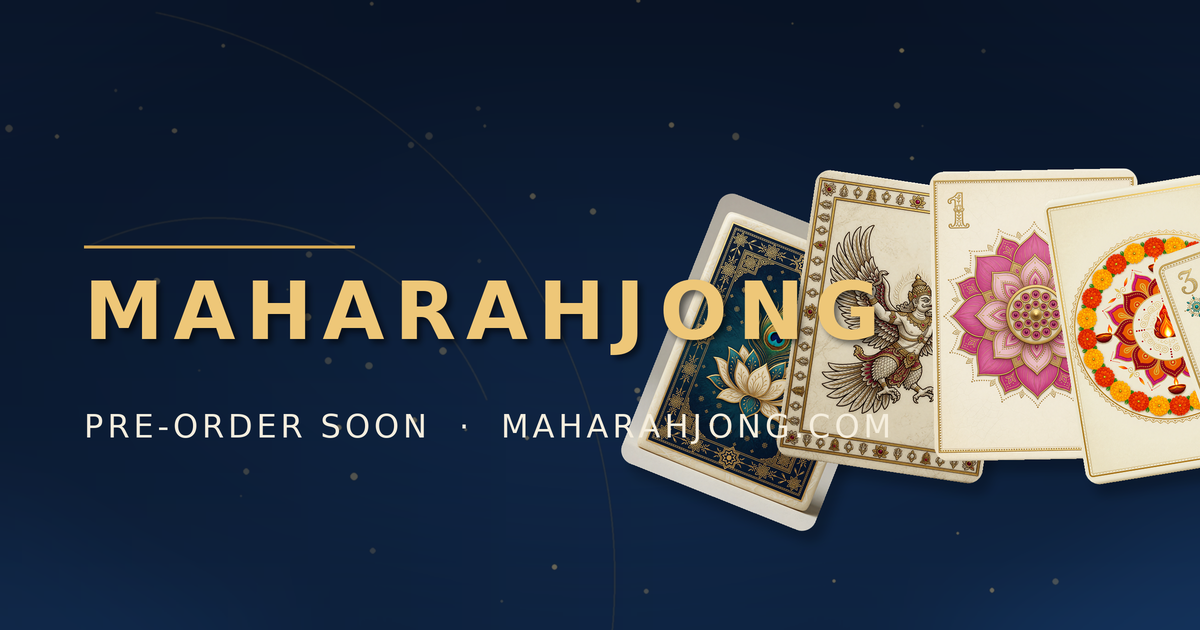
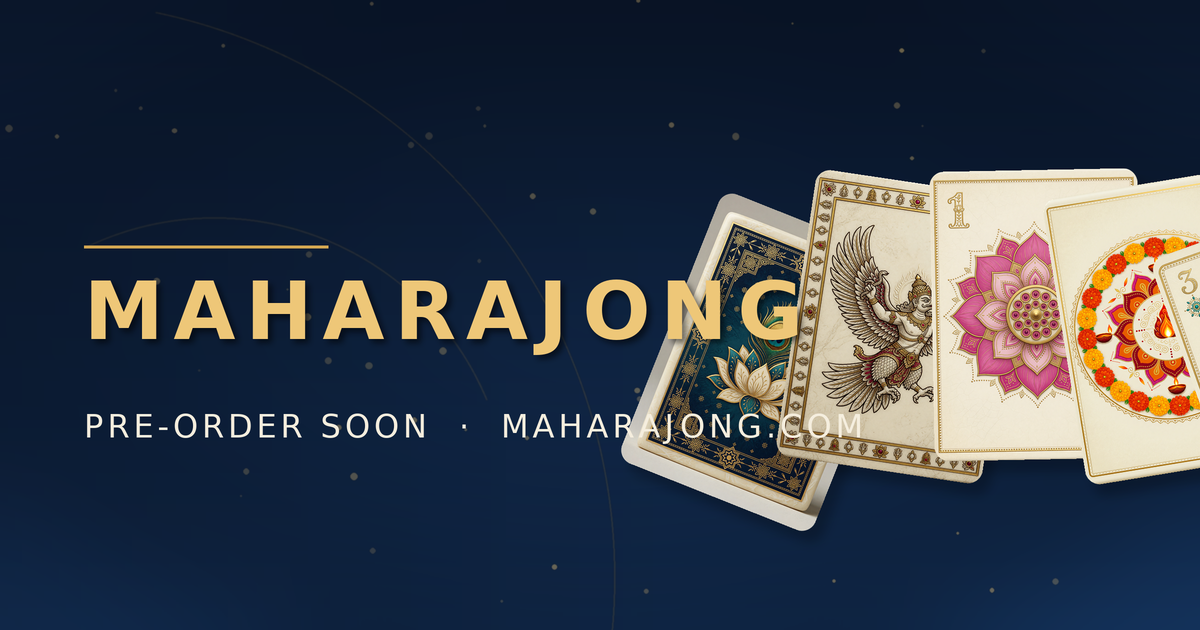
Fix brand spelling: Maharahjong → Maharajong
Store domain is maharajong.com (confirmed via Shopify). Updated all
landing page copy, template handles, deploy guide, and regenerated
og-image.png with corrected wordmark.

Changed region(s): [[0.4625, 0.4222, 0.74, 0.573], [0.555, 0.6333, 0.74, 0.7238], [0.4317, 0.5429, 0.4625, 0.573]]

diff --git a/web/landing/index.html b/web/landing/index.html
@@ -3,14 +3,14 @@
 <head>
 <meta charset="UTF-8" />
 <meta name="viewport" content="width=device-width, initial-scale=1.0" />
-<title>Maharahjong — Founding Edition | Four traditions, one table</title>
-<meta name="description" content="Maharahjong is a premium Indian-fusion mahjong set blending Chinese, Japanese and American mahjong with Indian Rummy, rangoli artistry and Vedic symbols. Join the Founding Edition waitlist." />
+<title>Maharajong — Founding Edition | Four traditions, one table</title>
+<meta name="description" content="Maharajong is a premium Indian-fusion mahjong set blending Chinese, Japanese and American mahjong with Indian Rummy, rangoli artistry and Vedic symbols. Join the Founding Edition waitlist." />
 
 <!-- Open Graph / social -->
-<meta property="og:title" content="Maharahjong — Founding Edition" />
+<meta property="og:title" content="Maharajong — Founding Edition" />
 <meta property="og:description" content="Four traditions, one table. A premium Indian-fusion mahjong set. Join the Founding Edition waitlist." />
 <meta property="og:type" content="website" />
-<meta property="og:url" content="https://maharahjong.com/" />
+<meta property="og:url" content="https://maharajong.com/" />
 <meta property="og:image" content="../../design/marketing/hero/og-image.png" />
 <meta name="twitter:card" content="summary_large_image" />
 
@@ -383,7 +383,7 @@
     <div class="section-head">
       <div class="rangoli-rule"><span class="dot">✦ ✦ ✦</span></div>
       <h2>Four traditions, one table</h2>
-      <p>Mahjong has traveled the world for a century, gathering meaning at every table. Maharahjong brings it home to India — braiding four great game traditions into one set, dressed in the art of rangoli and the depth of Vedic symbol.</p>
+      <p>Mahjong has traveled the world for a century, gathering meaning at every table. Maharajong brings it home to India — braiding four great game traditions into one set, dressed in the art of rangoli and the depth of Vedic symbol.</p>
     </div>
     <div class="traditions">
       <div class="tradition">
@@ -419,7 +419,7 @@
       <p>Every face is drawn in the spirit of temple relief and rangoli stencil — lotus and peacock, deity and festival, chakra and Vedic sign. Intricate up close, instantly readable in play.</p>
     </div>
     <div class="strip">
-      <img src="../../design/marketing/hero/tile-showcase-strip.png" alt="A strip of Maharahjong tile artwork showing lotus, peacock, deity and festival designs" loading="lazy" />
+      <img src="../../design/marketing/hero/tile-showcase-strip.png" alt="A strip of Maharajong tile artwork showing lotus, peacock, deity and festival designs" loading="lazy" />
     </div>
     <div class="tile-grid">
       <div class="tile-card">
@@ -494,11 +494,11 @@
         <div class="mark">✧</div>
         <div>
           <h3>Rules &amp; quick-start</h3>
-          <p>The full Maharahjong rulebook plus a one-page guide to get four players seated fast.</p>
+          <p>The full Maharajong rulebook plus a one-page guide to get four players seated fast.</p>
         </div>
       </div>
     </div>
-    <p class="box-disclaimer">Maharahjong is in active prototyping. Final contents, quantities and finishes may vary as we refine the set with our makers.</p>
+    <p class="box-disclaimer">Maharajong is in active prototyping. Final contents, quantities and finishes may vary as we refine the set with our makers.</p>
   </div>
 </section>
 
@@ -542,7 +542,7 @@
       <div class="rangoli-rule"><span class="dot">✦ ✦ ✦</span></div>
       <span class="eyebrow">Founding Edition</span>
       <h2>Reserve your place at the table</h2>
-      <p class="lead">Join the pre-order list to be first to reserve a Founding Edition Maharahjong set — and to help shape it as it comes to life.</p>
+      <p class="lead">Join the pre-order list to be first to reserve a Founding Edition Maharajong set — and to help shape it as it comes to life.</p>
       <form class="signup-form" onsubmit="return handleSignup(event, 'waitlist-success')">
         <input type="email" name="email" placeholder="Your email address" required aria-label="Email address" />
         <button type="submit" class="btn btn-gold">Join the Pre-order List</button>
@@ -562,12 +562,12 @@
     </div>
     <div class="faq-list">
       <div class="faq-item">
-        <button class="faq-q" onclick="toggleFaq(this)">When will Maharahjong ship?</button>
-        <div class="faq-a"><p>We don't have a firm ship date yet — Maharahjong is still in prototyping. Joining the pre-order list is the best way to hear about timing first, the moment it's set.</p></div>
+        <button class="faq-q" onclick="toggleFaq(this)">When will Maharajong ship?</button>
+        <div class="faq-a"><p>We don't have a firm ship date yet — Maharajong is still in prototyping. Joining the pre-order list is the best way to hear about timing first, the moment it's set.</p></div>
       </div>
       <div class="faq-item">
         <button class="faq-q" onclick="toggleFaq(this)">How much will it cost?</button>
-        <div class="faq-a"><p>Pricing isn't finalized. As a premium, hand-finished set, Maharahjong will be priced to match its craft — we'll share exact Founding Edition pricing with the waitlist before reservations open, with no obligation to buy.</p></div>
+        <div class="faq-a"><p>Pricing isn't finalized. As a premium, hand-finished set, Maharajong will be priced to match its craft — we'll share exact Founding Edition pricing with the waitlist before reservations open, with no obligation to buy.</p></div>
       </div>
       <div class="faq-item">
         <button class="faq-q" onclick="toggleFaq(this)">Where is it made?</button>
@@ -575,7 +575,7 @@
       </div>
       <div class="faq-item">
         <button class="faq-q" onclick="toggleFaq(this)">Do I need to know how to play mahjong?</button>
-        <div class="faq-a"><p>Not at all. Maharahjong is designed to welcome newcomers while rewarding experienced players. The set includes a full rulebook and a one-page quick-start so four people can sit down and play.</p></div>
+        <div class="faq-a"><p>Not at all. Maharajong is designed to welcome newcomers while rewarding experienced players. The set includes a full rulebook and a one-page quick-start so four people can sit down and play.</p></div>
       </div>
       <div class="faq-item">
         <button class="faq-q" onclick="toggleFaq(this)">Is joining the list a commitment?</button>
@@ -583,7 +583,7 @@
       </div>
       <div class="faq-item">
         <button class="faq-q" onclick="toggleFaq(this)">Is the design respectful of the traditions it draws on?</button>
-        <div class="faq-a"><p>That's our first commitment. Maharahjong is a heartfelt fusion, and we render every symbol — Vedic, festival and deity — with care and reverence. We welcome feedback from the communities whose art and games inspire the set.</p></div>
+        <div class="faq-a"><p>That's our first commitment. Maharajong is a heartfelt fusion, and we render every symbol — Vedic, festival and deity — with care and reverence. We welcome feedback from the communities whose art and games inspire the set.</p></div>
       </div>
     </div>
   </div>
@@ -613,8 +613,8 @@
       </div>
     </div>
     <div class="footer-bottom">
-      <span>© <span id="year"></span> Maharahjong. All rights reserved.</span>
-      <span>maharahjong.com · Currently in prototyping</span>
+      <span>© <span id="year"></span> Maharajong. All rights reserved.</span>
+      <span>maharajong.com · Currently in prototyping</span>
     </div>
   </div>
 </footer>

diff --git a/design/marketing/make_hero_graphics.py b/design/marketing/make_hero_graphics.py
@@ -1,5 +1,5 @@
 #!/usr/bin/env python3
-"""Composite marketing hero graphics for the Maharahjong pre-order landing page.
+"""Composite marketing hero graphics for the Maharajong pre-order landing page.
 
 Builds three images from existing tile / mat assets:
   1. hero-banner.png            2400x1000  - fanned tile arrangement, navy/gold, left 40% clear
@@ -520,7 +520,7 @@ def build_og_image() -> Image.Image:
     shadow_text = Image.new("RGBA", (BW, BH), (0, 0, 0, 0))
     std = ImageDraw.Draw(shadow_text)
     letter_spaced_text(
-        std, (text_x + int(4 * ss), title_y + int(4 * ss)), "MAHARAHJONG",
+        std, (text_x + int(4 * ss), title_y + int(4 * ss)), "MAHARAJONG",
         title_font, (0, 0, 0, 140), tracking=int(10 * ss),
     )
     shadow_text = shadow_text.filter(ImageFilter.GaussianBlur(3 * ss))
@@ -528,13 +528,13 @@ def build_og_image() -> Image.Image:
 
     draw = ImageDraw.Draw(canvas)
     tw, th = letter_spaced_text(
-        draw, (text_x, title_y), "MAHARAHJONG",
+        draw, (text_x, title_y), "MAHARAJONG",
         title_font, (*GOLD_BRIGHT, 255), tracking=int(10 * ss),
     )
 
     subtitle_y = title_y + int(th * 1.9)
     letter_spaced_text(
-        draw, (text_x, subtitle_y), "PRE-ORDER SOON  ·  MAHARAHJONG.COM",
+        draw, (text_x, subtitle_y), "PRE-ORDER SOON  ·  MAHARAJONG.COM",
         subtitle_font, (*IVORY, 235), tracking=int(4 * ss),
     )
 

diff --git a/web/landing/DEPLOY.md b/web/landing/DEPLOY.md
@@ -1,7 +1,7 @@
-# Deploying the Maharahjong Founding Edition landing page to Shopify
+# Deploying the Maharajong Founding Edition landing page to Shopify
 
 This guide takes the files in `web/landing/` and gets the pre-order landing page
-live on **maharahjong.com**, with working email capture. Estimated time: ~20 min.
+live on **maharajong.com**, with working email capture. Estimated time: ~20 min.
 
 Files in this folder:
 - `index.html` — standalone preview (open locally to see the design; not uploaded to Shopify)
@@ -35,11 +35,11 @@ flat filenames via `{{ '...' | asset_url }}`):
 ## Step 2 — Create the page from the Liquid template
 
 **Option A — dedicated template (recommended, no theme header/footer clutter):**
-1. Edit code → **Templates → Add a new template** → type **page** → **Liquid** → name **`maharahjong-landing`**.
+1. Edit code → **Templates → Add a new template** → type **page** → **Liquid** → name **`maharajong-landing`**.
 2. Replace the placeholder with the entire contents of `shopify-page.liquid`. Save.
-3. **Admin → Online Store → Pages → Add page.** Title: **Maharahjong**.
-4. In the right sidebar **Theme template** dropdown, choose **`page.maharahjong-landing`**. Save.
-5. Note the page handle (URL), e.g. `maharahjong.com/pages/maharahjong`.
+3. **Admin → Online Store → Pages → Add page.** Title: **Maharajong**.
+4. In the right sidebar **Theme template** dropdown, choose **`page.maharajong-landing`**. Save.
+5. Note the page handle (URL), e.g. `maharajong.com/pages/maharajong`.
 
 **Option B — Custom Liquid section (fastest, keeps theme chrome):**
 1. **Admin → Online Store → Themes → Customize.**
@@ -49,13 +49,13 @@ flat filenames via `{{ '...' | asset_url }}`):
 
 ## Step 3 — Set the page as the homepage
 
-So maharahjong.com opens directly on the landing page:
+So maharajong.com opens directly on the landing page:
 
 1. **Admin → Online Store → Preferences** — this is where the homepage/SEO title live,
    but the actual "homepage = this page" swap is done in the theme.
-2. Easiest reliable method: **Themes → Customize → (top page-selector dropdown) → Pages → Maharahjong**,
+2. Easiest reliable method: **Themes → Customize → (top page-selector dropdown) → Pages → Maharajong**,
    confirm it renders, then either:
-   - **Redirect approach:** Admin → Online Store → Navigation → **URL Redirects** → Add redirect: `/` → `/pages/maharahjong`, **or**
+   - **Redirect approach:** Admin → Online Store → Navigation → **URL Redirects** → Add redirect: `/` → `/pages/maharajong`, **or**
    - **Homepage template approach:** rename/duplicate the section content into `templates/index.*` (the Home template) so the default homepage renders the landing content.
 3. Publish the theme when you're happy with the preview.
 
@@ -72,10 +72,10 @@ The `index.html` preview references `og-image.png` directly. In Shopify, set it 
    `design/marketing/hero/og-image.png` (1200×630). This is what appears when the
    link is shared on social/messaging.
 2. **Preferences → Title and meta description** — set:
-   - Title: `Maharahjong — Founding Edition`
+   - Title: `Maharajong — Founding Edition`
    - Description: `Four traditions, one table. A premium Indian-fusion mahjong set. Join the Founding Edition waitlist.`
 3. (Optional) For a page-specific share image, edit the page's SEO section under
-   **Pages → Maharahjong → Edit website SEO**.
+   **Pages → Maharajong → Edit website SEO**.
 
 ---
 
@@ -100,7 +100,7 @@ submission **`preorder`**. No app required.
 
 Once pricing and timing firm up, convert interest into reservations:
 
-1. **Admin → Products → Add product** → **Founding Edition Maharahjong Set**.
+1. **Admin → Products → Add product** → **Founding Edition Maharajong Set**.
 2. Save it as a **Draft** for now (not published) so it doesn't appear before you're ready.
 3. When ready to take reservations, decide the mechanism:
    - a **deposit** product (partial-payment app), or
